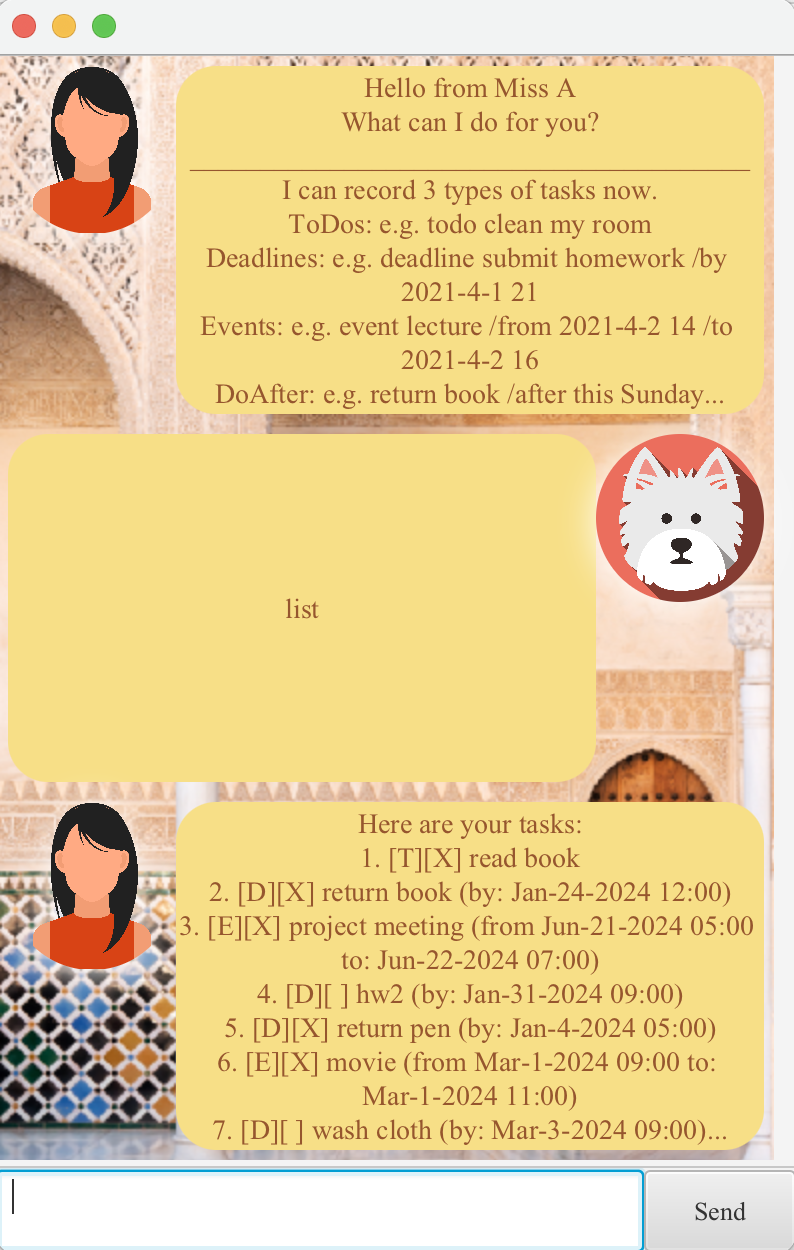
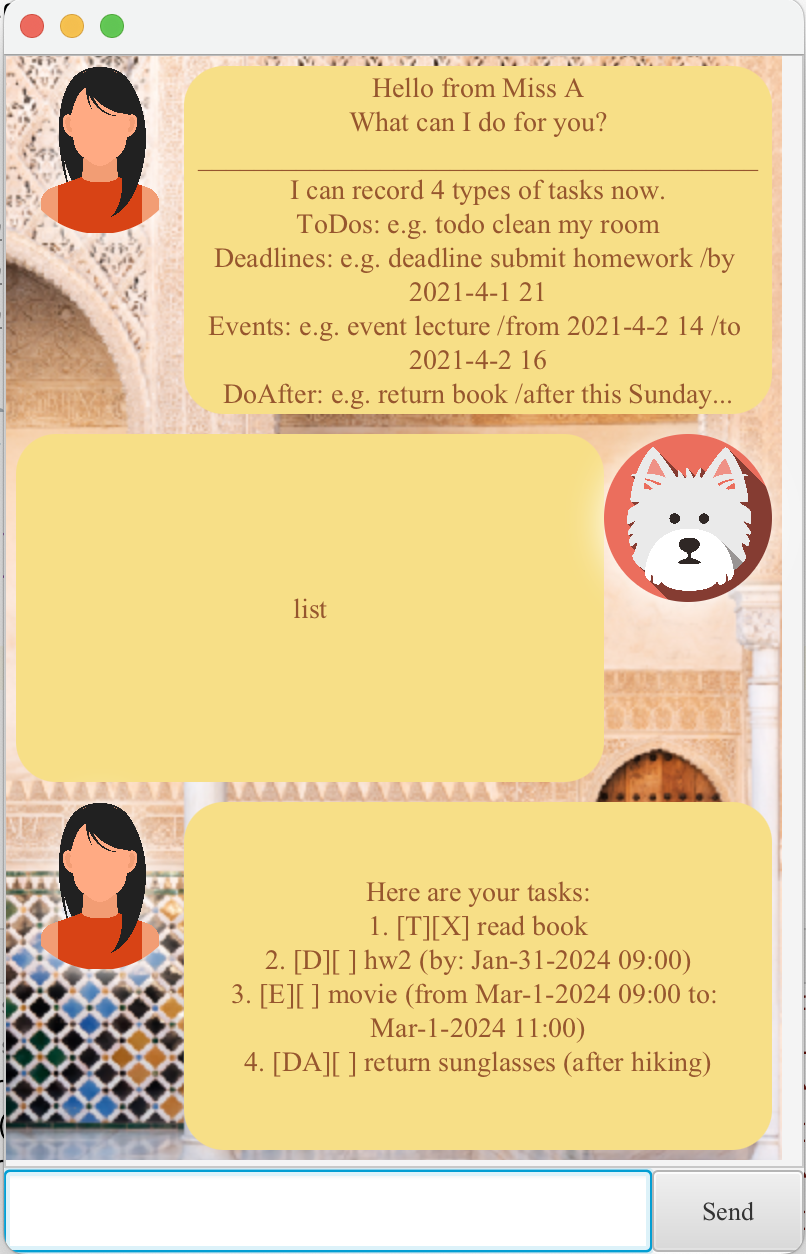
Fix minor bugs

diff --git a/src/main/java/missa/Ui.java b/src/main/java/missa/Ui.java
@@ -13,7 +13,7 @@ public class Ui {
     private String greeting = "Hello from Miss A\n"
             + "What can I do for you?\n"
             + emptyLine
-            + "I can record 3 types of tasks now.\n"
+            + "I can record 4 types of tasks now.\n"
             + "ToDos: e.g. todo clean my room\n"
             + "Deadlines: e.g. deadline submit homework /by 2021-4-1 21\n"
             + "Events: e.g. event lecture /from 2021-4-2 14 /to 2021-4-2 16\n"

diff --git a/src/main/java/missa/task/Event.java b/src/main/java/missa/task/Event.java
@@ -22,6 +22,7 @@ public class Event extends Task {
         this.from = from;
         this.to = to;
     }
+
     @Override
     public String toString() {
         return "[E]"
